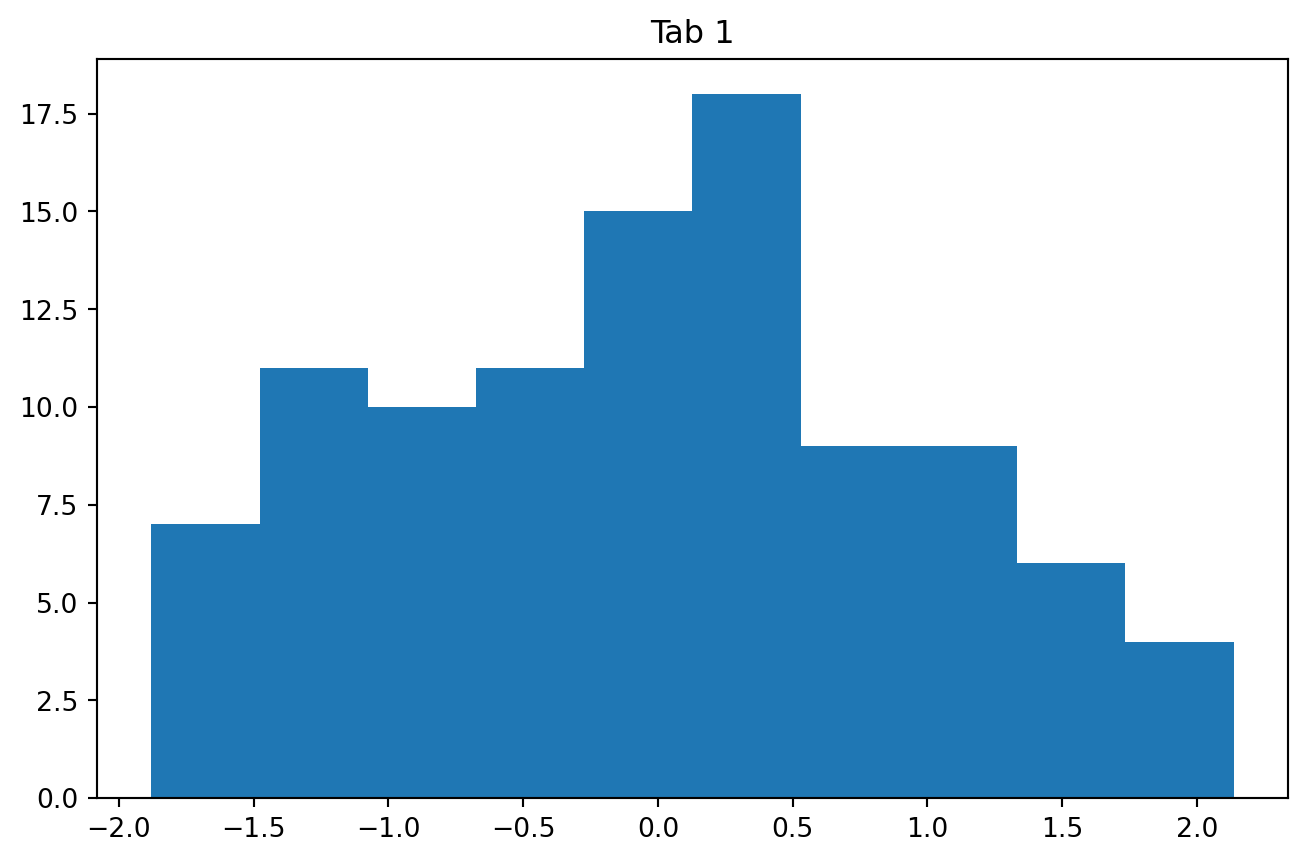
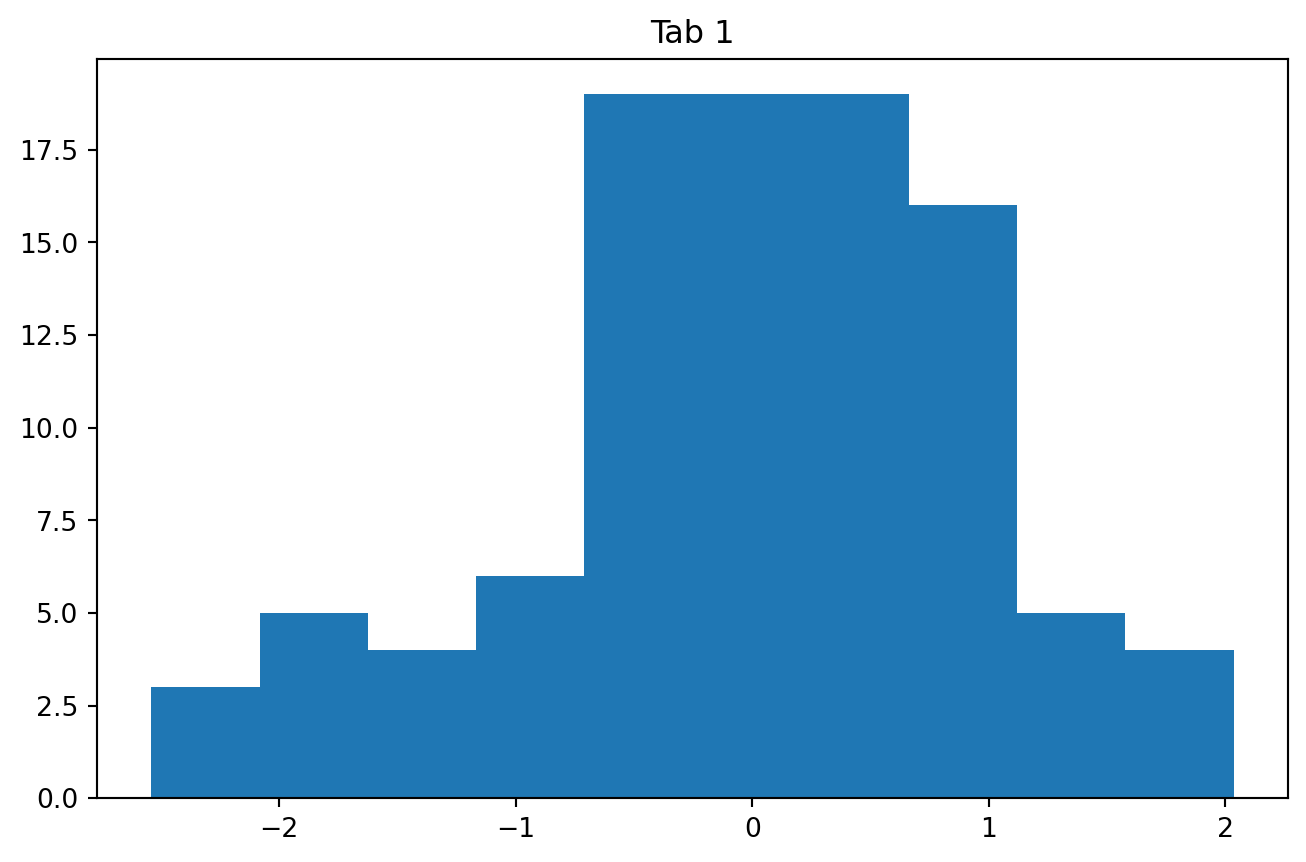
commir

diff --git a/docs/index.html b/docs/index.html
@@ -76,10 +76,7 @@ ul.task-list li input[type="checkbox"] {
 }</script>
 <script src="https://cdnjs.cloudflare.com/ajax/libs/require.js/2.3.6/require.min.js" integrity="sha512-c3Nl8+7g4LMSTdrm621y7kf9v3SDPnhxLNhcjFJbKECVnmZHTdo+IRO05sNLTH/D3vA6u1X32ehoLC7WFVdheg==" crossorigin="anonymous"></script>
 
-
-
 <script type="application/javascript">define('jquery', [],function() {return window.jQuery;})</script>
-
 
 
 </head>
@@ -143,7 +140,7 @@ grid-auto-rows: minmax(0, 1fr);">
 <div class="card cell html-fill-item html-fill-container bslib-card" data-title="Ames Map 집값 지도" data-bslib-card-init="" data-require-bs-caller="card()" data-full-screen="false">
 <div class="card-header"><div class="card-title">Ames Map 집값 지도</div></div>
 <div class="card-body html-fill-item html-fill-container" style="padding: 0px;">
-<div class="cell-output cell-output-display html-fill-item html-fill-container" data-execution_count="1">
+<div class="cell-output cell-output-display html-fill-item html-fill-container" data-execution_count="14">
 
         <iframe width="100%" height="600px" src="maps/ames_house_price_map.html" frameborder="0" allowfullscreen=""></iframe>
         
@@ -219,42 +216,42 @@ grid-auto-rows: minmax(0, 1fr);">
 
 
 <div class="tab-content html-fill-item html-fill-container" data-tabset-id="card-tabset-8"><div class="tab-pane active show html-fill-item html-fill-container" role="tabpanel" id="card-tabset-8-1"><div class="card-body html-fill-item html-fill-container" data-title="Chart 1">
-<div class="cell-output cell-output-display html-fill-item html-fill-container" data-execution_count="2">
-<pre><code>(array([ 4.,  4., 12., 11., 21., 15., 17., 11.,  4.,  1.]),
- array([-2.35601679, -1.88276779, -1.4095188 , -0.9362698 , -0.46302081,
-         0.01022819,  0.48347718,  0.95672618,  1.42997518,  1.90322417,
-         2.37647317]),
+<div class="cell-output cell-output-display html-fill-item html-fill-container" data-execution_count="15">
+<pre><code>(array([ 3.,  4.,  7., 20., 20., 23., 17.,  1.,  4.,  1.]),
+ array([-2.54839744, -2.01565217, -1.48290689, -0.95016162, -0.41741634,
+         0.11532893,  0.6480742 ,  1.18081948,  1.71356475,  2.24631002,
+         2.7790553 ]),
  &lt;BarContainer object of 10 artists&gt;)</code></pre>
 </div>
-<div class="cell-output cell-output-display html-fill-item html-fill-container" data-execution_count="2">
+<div class="cell-output cell-output-display html-fill-item html-fill-container" data-execution_count="15">
 <pre><code>Text(0.5, 1.0, 'Tab 1')</code></pre>
 </div>
 <div class="cell-output cell-output-display html-fill-item html-fill-container">
 <img src="index_files/figure-html/cell-3-output-3.png" class="quarto-dashboard-img-contain">
 </div>
 </div></div><div class="tab-pane html-fill-item html-fill-container" role="tabpanel" id="card-tabset-8-2"><div class="card-body html-fill-item html-fill-container" data-title="Chart 2">
-<div class="cell-output cell-output-display html-fill-item html-fill-container" data-execution_count="3">
-<pre><code>(array([ 6.,  7., 13., 25., 19.,  8., 13.,  6.,  2.,  1.]),
- array([-1.95032287, -1.50218618, -1.05404949, -0.60591281, -0.15777612,
-         0.29036057,  0.73849726,  1.18663394,  1.63477063,  2.08290732,
-         2.53104401]),
+<div class="cell-output cell-output-display html-fill-item html-fill-container" data-execution_count="16">
+<pre><code>(array([ 5.,  2., 14., 13., 19., 14., 16.,  8.,  3.,  6.]),
+ array([-2.13368381, -1.68889246, -1.24410111, -0.79930976, -0.35451841,
+         0.09027294,  0.53506428,  0.97985563,  1.42464698,  1.86943833,
+         2.31422968]),
  &lt;BarContainer object of 10 artists&gt;)</code></pre>
 </div>
-<div class="cell-output cell-output-display html-fill-item html-fill-container" data-execution_count="3">
+<div class="cell-output cell-output-display html-fill-item html-fill-container" data-execution_count="16">
 <pre><code>Text(0.5, 1.0, 'Tab 1')</code></pre>
 </div>
 <div class="cell-output cell-output-display html-fill-item html-fill-container">
 <img src="index_files/figure-html/cell-4-output-3.png" class="quarto-dashboard-img-contain">
 </div>
 </div></div><div class="tab-pane html-fill-item html-fill-container" role="tabpanel" id="card-tabset-8-3"><div class="card-body html-fill-item html-fill-container" data-title="Chart 3">
-<div class="cell-output cell-output-display html-fill-item html-fill-container" data-execution_count="4">
-<pre><code>(array([ 6., 11., 11., 23., 24., 13.,  8.,  2.,  0.,  2.]),
- array([-2.1048516 , -1.58188465, -1.0589177 , -0.53595075, -0.01298379,
-         0.50998316,  1.03295011,  1.55591706,  2.07888402,  2.60185097,
-         3.12481792]),
+<div class="cell-output cell-output-display html-fill-item html-fill-container" data-execution_count="17">
+<pre><code>(array([ 2.,  1.,  6.,  9., 15., 21., 14., 18.,  9.,  5.]),
+ array([-2.81056939, -2.32182017, -1.83307095, -1.34432173, -0.85557252,
+        -0.3668233 ,  0.12192592,  0.61067513,  1.09942435,  1.58817357,
+         2.07692279]),
  &lt;BarContainer object of 10 artists&gt;)</code></pre>
 </div>
-<div class="cell-output cell-output-display html-fill-item html-fill-container" data-execution_count="4">
+<div class="cell-output cell-output-display html-fill-item html-fill-container" data-execution_count="17">
 <pre><code>Text(0.5, 1.0, 'Tab 1')</code></pre>
 </div>
 <div class="cell-output cell-output-display html-fill-item html-fill-container">
@@ -276,42 +273,42 @@ grid-auto-rows: minmax(0, 1fr);">
 
 
 <div class="tab-content html-fill-item html-fill-container" data-tabset-id="card-tabset-9"><div class="tab-pane active show html-fill-item html-fill-container" role="tabpanel" id="card-tabset-9-1"><div class="card-body html-fill-item html-fill-container" data-title="Chart 1">
-<div class="cell-output cell-output-display html-fill-item html-fill-container" data-execution_count="5">
-<pre><code>(array([ 1.,  0.,  2.,  4., 16., 18., 21., 20., 15.,  3.]),
- array([-3.88919652, -3.26873061, -2.6482647 , -2.0277988 , -1.40733289,
-        -0.78686698, -0.16640107,  0.45406484,  1.07453074,  1.69499665,
-         2.31546256]),
+<div class="cell-output cell-output-display html-fill-item html-fill-container" data-execution_count="18">
+<pre><code>(array([ 2., 10.,  9., 18., 15., 24.,  9.,  6.,  6.,  1.]),
+ array([-2.10426463, -1.65692086, -1.20957709, -0.76223332, -0.31488956,
+         0.13245421,  0.57979798,  1.02714175,  1.47448552,  1.92182928,
+         2.36917305]),
  &lt;BarContainer object of 10 artists&gt;)</code></pre>
 </div>
-<div class="cell-output cell-output-display html-fill-item html-fill-container" data-execution_count="5">
+<div class="cell-output cell-output-display html-fill-item html-fill-container" data-execution_count="18">
 <pre><code>Text(0.5, 1.0, 'Tab 1')</code></pre>
 </div>
 <div class="cell-output cell-output-display html-fill-item html-fill-container">
 <img src="index_files/figure-html/cell-6-output-3.png" class="quarto-dashboard-img-contain">
 </div>
 </div></div><div class="tab-pane html-fill-item html-fill-container" role="tabpanel" id="card-tabset-9-2"><div class="card-body html-fill-item html-fill-container" data-title="Chart 2">
-<div class="cell-output cell-output-display html-fill-item html-fill-container" data-execution_count="6">
-<pre><code>(array([ 7., 11., 10., 11., 15., 18.,  9.,  9.,  6.,  4.]),
- array([-1.87982029, -1.47824188, -1.07666346, -0.67508505, -0.27350663,
-         0.12807178,  0.5296502 ,  0.93122862,  1.33280703,  1.73438545,
-         2.13596386]),
+<div class="cell-output cell-output-display html-fill-item html-fill-container" data-execution_count="19">
+<pre><code>(array([ 3.,  5.,  4.,  6., 19., 19., 19., 16.,  5.,  4.]),
+ array([-2.54024562, -2.08273998, -1.62523433, -1.16772869, -0.71022305,
+        -0.2527174 ,  0.20478824,  0.66229388,  1.11979953,  1.57730517,
+         2.03481081]),
  &lt;BarContainer object of 10 artists&gt;)</code></pre>
 </div>
-<div class="cell-output cell-output-display html-fill-item html-fill-container" data-execution_count="6">
+<div class="cell-output cell-output-display html-fill-item html-fill-container" data-execution_count="19">
 <pre><code>Text(0.5, 1.0, 'Tab 1')</code></pre>
 </div>
 <div class="cell-output cell-output-display html-fill-item html-fill-container">
 <img src="index_files/figure-html/cell-7-output-3.png" class="quarto-dashboard-img-contain">
 </div>
 </div></div><div class="tab-pane html-fill-item html-fill-container" role="tabpanel" id="card-tabset-9-3"><div class="card-body html-fill-item html-fill-container" data-title="Chart 3">
-<div class="cell-output cell-output-display html-fill-item html-fill-container" data-execution_count="7">
-<pre><code>(array([ 1.,  1.,  3., 11., 22., 23., 14., 14.,  8.,  3.]),
- array([-3.50820742, -2.91916207, -2.33011671, -1.74107135, -1.152026  ,
-        -0.56298064,  0.02606471,  0.61511007,  1.20415543,  1.79320078,
-         2.38224614]),
+<div class="cell-output cell-output-display html-fill-item html-fill-container" data-execution_count="20">
+<pre><code>(array([ 1.,  3.,  3., 14., 21., 24., 14., 10.,  7.,  3.]),
+ array([-2.95022674, -2.39698187, -1.84373699, -1.29049211, -0.73724724,
+        -0.18400236,  0.36924251,  0.92248739,  1.47573227,  2.02897714,
+         2.58222202]),
  &lt;BarContainer object of 10 artists&gt;)</code></pre>
 </div>
-<div class="cell-output cell-output-display html-fill-item html-fill-container" data-execution_count="7">
+<div class="cell-output cell-output-display html-fill-item html-fill-container" data-execution_count="20">
 <pre><code>Text(0.5, 1.0, 'Tab 1')</code></pre>
 </div>
 <div class="cell-output cell-output-display html-fill-item html-fill-container">
@@ -338,42 +335,42 @@ grid-auto-rows: minmax(0, 1fr);">
 
 
 <div class="tab-content html-fill-item html-fill-container" data-tabset-id="card-tabset-10"><div class="tab-pane active show html-fill-item html-fill-container" role="tabpanel" id="card-tabset-10-1"><div class="card-body html-fill-item html-fill-container" data-title="Chart 1">
-<div class="cell-output cell-output-display html-fill-item html-fill-container" data-execution_count="8">
-<pre><code>(array([ 3.,  2.,  1., 14., 16., 18., 21., 10.,  7.,  8.]),
- array([-2.48597682, -2.02689232, -1.56780782, -1.10872332, -0.64963882,
-        -0.19055432,  0.26853017,  0.72761467,  1.18669917,  1.64578367,
-         2.10486817]),
+<div class="cell-output cell-output-display html-fill-item html-fill-container" data-execution_count="21">
+<pre><code>(array([ 4.,  3., 10., 19., 15., 14., 15., 10.,  8.,  2.]),
+ array([-2.43340165, -1.99566493, -1.55792821, -1.12019149, -0.68245476,
+        -0.24471804,  0.19301868,  0.6307554 ,  1.06849212,  1.50622884,
+         1.94396557]),
  &lt;BarContainer object of 10 artists&gt;)</code></pre>
 </div>
-<div class="cell-output cell-output-display html-fill-item html-fill-container" data-execution_count="8">
+<div class="cell-output cell-output-display html-fill-item html-fill-container" data-execution_count="21">
 <pre><code>Text(0.5, 1.0, 'Tab 1')</code></pre>
 </div>
 <div class="cell-output cell-output-display html-fill-item html-fill-container">
 <img src="index_files/figure-html/cell-9-output-3.png" class="quarto-dashboard-img-contain">
 </div>
 </div></div><div class="tab-pane html-fill-item html-fill-container" role="tabpanel" id="card-tabset-10-2"><div class="card-body html-fill-item html-fill-container" data-title="Chart 2">
-<div class="cell-output cell-output-display html-fill-item html-fill-container" data-execution_count="9">
-<pre><code>(array([ 2.,  2.,  9., 15., 16., 22., 14.,  8.,  7.,  5.]),
- array([-2.70509441, -2.23009814, -1.75510187, -1.2801056 , -0.80510934,
-        -0.33011307,  0.1448832 ,  0.61987947,  1.09487574,  1.569872  ,
-         2.04486827]),
+<div class="cell-output cell-output-display html-fill-item html-fill-container" data-execution_count="22">
+<pre><code>(array([ 4.,  3.,  3., 13., 18., 21., 18.,  8.,  9.,  3.]),
+ array([-2.29429402, -1.83468086, -1.3750677 , -0.91545454, -0.45584138,
+         0.00377177,  0.46338493,  0.92299809,  1.38261125,  1.84222441,
+         2.30183756]),
  &lt;BarContainer object of 10 artists&gt;)</code></pre>
 </div>
-<div class="cell-output cell-output-display html-fill-item html-fill-container" data-execution_count="9">
+<div class="cell-output cell-output-display html-fill-item html-fill-container" data-execution_count="22">
 <pre><code>Text(0.5, 1.0, 'Tab 1')</code></pre>
 </div>
 <div class="cell-output cell-output-display html-fill-item html-fill-container">
 <img src="index_files/figure-html/cell-10-output-3.png" class="quarto-dashboard-img-contain">
 </div>
 </div></div><div class="tab-pane html-fill-item html-fill-container" role="tabpanel" id="card-tabset-10-3"><div class="card-body html-fill-item html-fill-container" data-title="Chart 3">
-<div class="cell-output cell-output-display html-fill-item html-fill-container" data-execution_count="10">
-<pre><code>(array([ 3.,  3., 10., 20., 21., 20., 12.,  7.,  2.,  2.]),
- array([-2.82169511, -2.25213606, -1.682577  , -1.11301795, -0.5434589 ,
-         0.02610015,  0.59565921,  1.16521826,  1.73477731,  2.30433636,
-         2.87389542]),
+<div class="cell-output cell-output-display html-fill-item html-fill-container" data-execution_count="23">
+<pre><code>(array([ 3.,  3.,  8., 16., 16., 22., 17., 10.,  3.,  2.]),
+ array([-3.03948285, -2.4727884 , -1.90609395, -1.3393995 , -0.77270505,
+        -0.2060106 ,  0.36068386,  0.92737831,  1.49407276,  2.06076721,
+         2.62746166]),
  &lt;BarContainer object of 10 artists&gt;)</code></pre>
 </div>
-<div class="cell-output cell-output-display html-fill-item html-fill-container" data-execution_count="10">
+<div class="cell-output cell-output-display html-fill-item html-fill-container" data-execution_count="23">
 <pre><code>Text(0.5, 1.0, 'Tab 1')</code></pre>
 </div>
 <div class="cell-output cell-output-display html-fill-item html-fill-container">
@@ -395,42 +392,42 @@ grid-auto-rows: minmax(0, 1fr);">
 
 
 <div class="tab-content html-fill-item html-fill-container" data-tabset-id="card-tabset-11"><div class="tab-pane active show html-fill-item html-fill-container" role="tabpanel" id="card-tabset-11-1"><div class="card-body html-fill-item html-fill-container" data-title="Chart 1">
-<div class="cell-output cell-output-display html-fill-item html-fill-container" data-execution_count="11">
-<pre><code>(array([ 2.,  9.,  9., 11., 16., 18., 13., 10., 10.,  2.]),
- array([-2.51227494, -2.03874999, -1.56522505, -1.0917001 , -0.61817515,
-        -0.14465021,  0.32887474,  0.80239969,  1.27592463,  1.74944958,
-         2.22297453]),
+<div class="cell-output cell-output-display html-fill-item html-fill-container" data-execution_count="24">
+<pre><code>(array([ 7.,  9., 13., 18., 17., 12., 14.,  7.,  1.,  2.]),
+ array([-1.86957498, -1.41084291, -0.95211083, -0.49337876, -0.03464668,
+         0.42408539,  0.88281747,  1.34154954,  1.80028162,  2.25901369,
+         2.71774577]),
  &lt;BarContainer object of 10 artists&gt;)</code></pre>
 </div>
-<div class="cell-output cell-output-display html-fill-item html-fill-container" data-execution_count="11">
+<div class="cell-output cell-output-display html-fill-item html-fill-container" data-execution_count="24">
 <pre><code>Text(0.5, 1.0, 'Tab 1')</code></pre>
 </div>
 <div class="cell-output cell-output-display html-fill-item html-fill-container">
 <img src="index_files/figure-html/cell-12-output-3.png" class="quarto-dashboard-img-contain">
 </div>
 </div></div><div class="tab-pane html-fill-item html-fill-container" role="tabpanel" id="card-tabset-11-2"><div class="card-body html-fill-item html-fill-container" data-title="Chart 2">
-<div class="cell-output cell-output-display html-fill-item html-fill-container" data-execution_count="12">
-<pre><code>(array([ 3.,  2.,  8., 14., 26., 25., 10.,  8.,  1.,  3.]),
- array([-2.78189633, -2.23890174, -1.69590715, -1.15291255, -0.60991796,
-        -0.06692336,  0.47607123,  1.01906582,  1.56206042,  2.10505501,
-         2.64804961]),
+<div class="cell-output cell-output-display html-fill-item html-fill-container" data-execution_count="25">
+<pre><code>(array([ 6.,  4.,  9., 13., 20., 18.,  8.,  9.,  8.,  5.]),
+ array([-2.29052664, -1.83619026, -1.38185388, -0.9275175 , -0.47318112,
+        -0.01884474,  0.43549164,  0.88982802,  1.3441644 ,  1.79850078,
+         2.25283716]),
  &lt;BarContainer object of 10 artists&gt;)</code></pre>
 </div>
-<div class="cell-output cell-output-display html-fill-item html-fill-container" data-execution_count="12">
+<div class="cell-output cell-output-display html-fill-item html-fill-container" data-execution_count="25">
 <pre><code>Text(0.5, 1.0, 'Tab 1')</code></pre>
 </div>
 <div class="cell-output cell-output-display html-fill-item html-fill-container">
 <img src="index_files/figure-html/cell-13-output-3.png" class="quarto-dashboard-img-contain">
 </div>
 </div></div><div class="tab-pane html-fill-item html-fill-container" role="tabpanel" id="card-tabset-11-3"><div class="card-body html-fill-item html-fill-container" data-title="Chart 3">
-<div class="cell-output cell-output-display html-fill-item html-fill-container" data-execution_count="13">
-<pre><code>(array([ 5.,  3.,  8., 21., 23., 20.,  4., 10.,  4.,  2.]),
- array([-2.17701047, -1.71463875, -1.25226703, -0.78989531, -0.32752359,
-         0.13484813,  0.59721985,  1.05959157,  1.52196329,  1.98433501,
-         2.44670673]),
+<div class="cell-output cell-output-display html-fill-item html-fill-container" data-execution_count="26">
+<pre><code>(array([ 2.,  6.,  6., 19., 13., 18., 13., 12.,  8.,  3.]),
+ array([-2.45781945, -2.00666718, -1.55551491, -1.10436263, -0.65321036,
+        -0.20205809,  0.24909419,  0.70024646,  1.15139874,  1.60255101,
+         2.05370328]),
  &lt;BarContainer object of 10 artists&gt;)</code></pre>
 </div>
-<div class="cell-output cell-output-display html-fill-item html-fill-container" data-execution_count="13">
+<div class="cell-output cell-output-display html-fill-item html-fill-container" data-execution_count="26">
 <pre><code>Text(0.5, 1.0, 'Tab 1')</code></pre>
 </div>
 <div class="cell-output cell-output-display html-fill-item html-fill-container">
